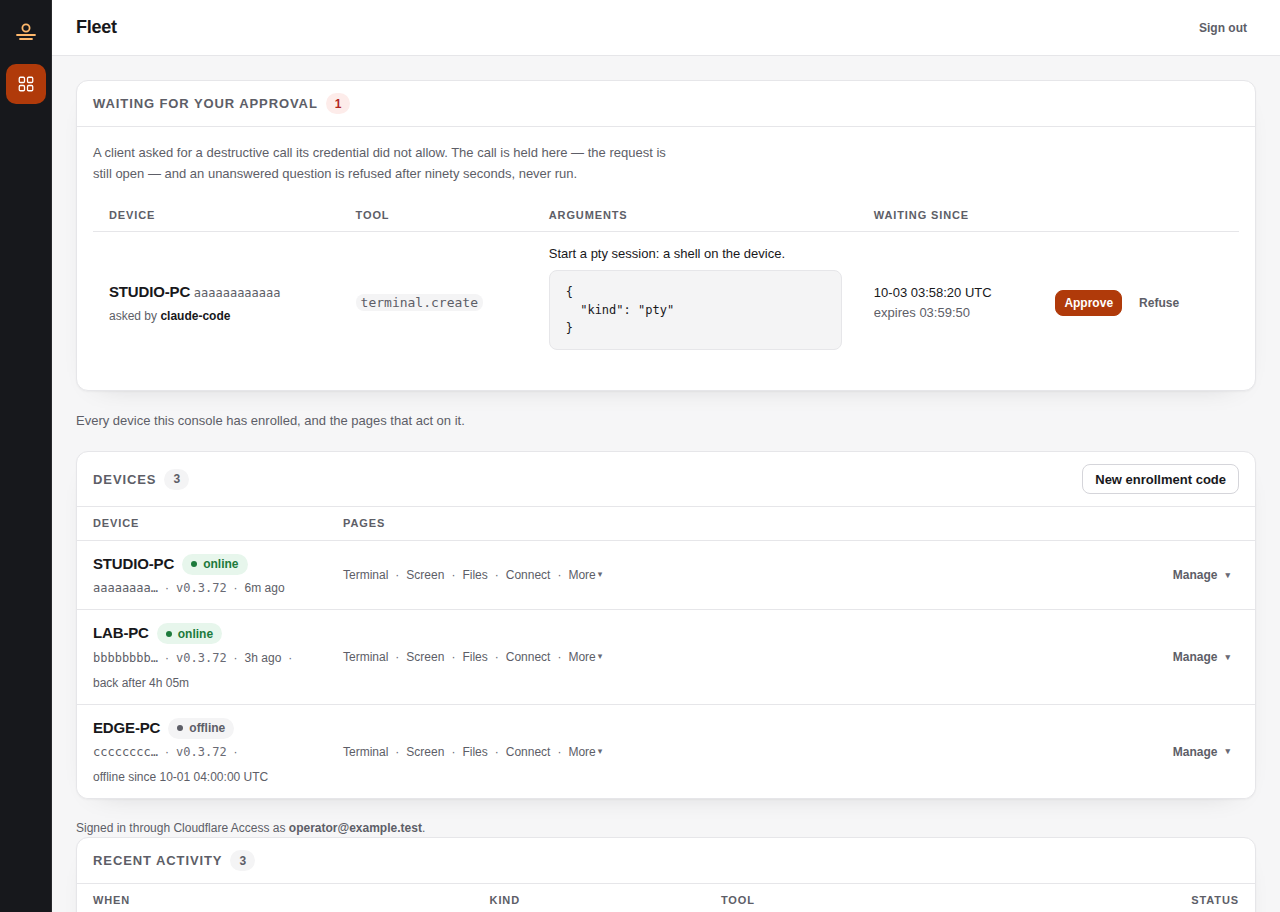
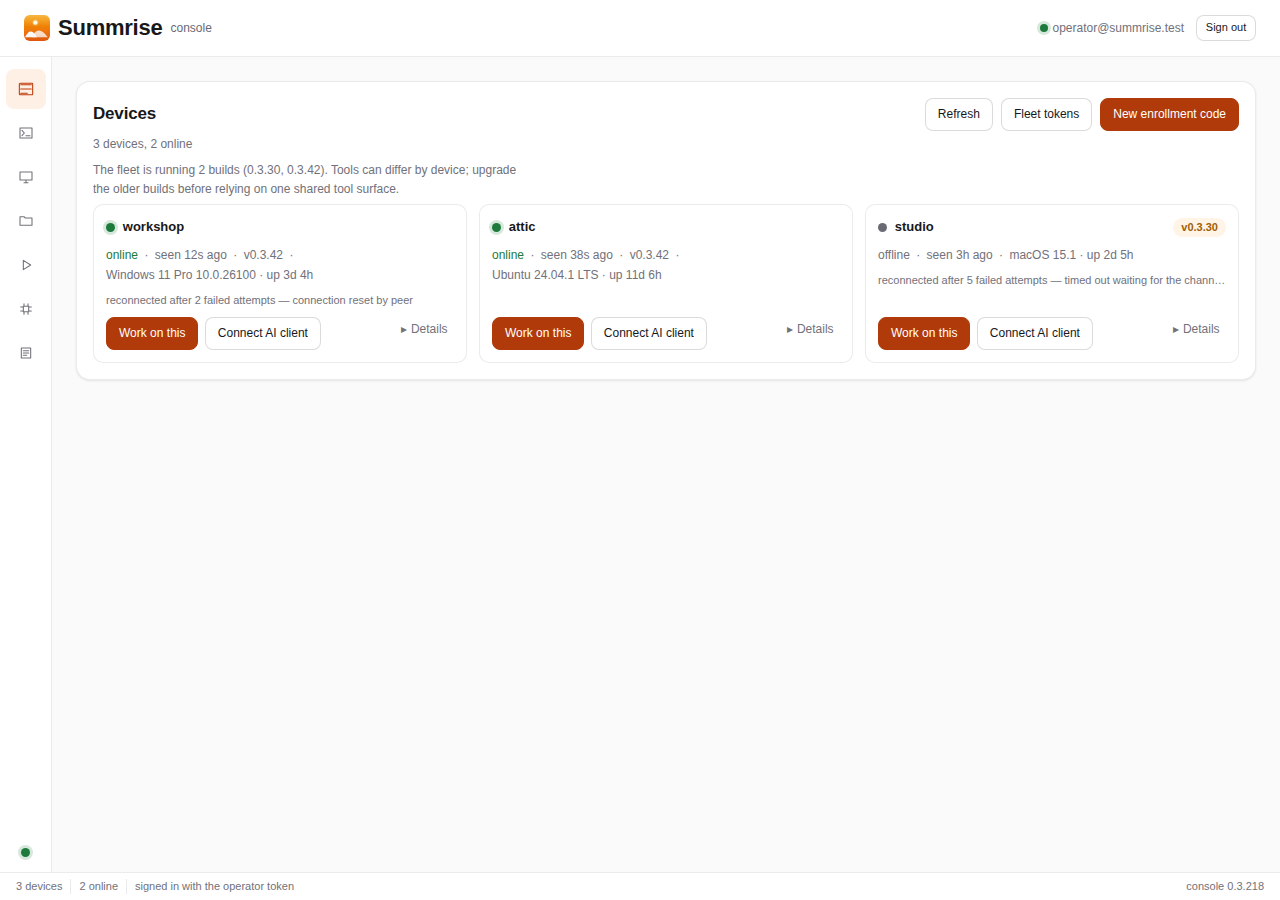
landing/docs: the product no longer sells an approval queue
The public page promised a destructive call "held for approval — ninety seconds, then refused", and
its console image was the old maud Fleet page with a WAITING FOR YOUR APPROVAL card. PRODUCT.md says
the opposite: there is no approval queue and no ninety-second hold; the consent is the token's scope,
and the brake is taking the keyboard. device/core/src/auth.rs refuses immediately. The landing's own
check passed because it checks parity and contrast, never product truth.

Rewrite the claim in both languages (Consent and audit; "refused, and the refusal says how to allow
it"), replace the fleet/grants vocabulary with tokens, and swap the screenshot for the React Devices
page this console actually serves. QUICKSTART and CONNECT-MCP lose the ninety-second hold and their
"rail: Tokens" / "Fleet page" references, which named controls that no longer exist; they now point
at Devices → Connect AI client / Fleet tokens. The deploy runbook stops warning about a queue that
cannot hold anything and names the React page it embeds.

VERIFIED:
- landing/check.mjs -> ok (78 strings in two languages, 17 ids, all anchors/assets resolve, 14
  contrast pairs >= 4.5:1)
- the replaced screenshot is 1280x900 (the figure's width/height now agree)
- grep for "ninety seconds" / "held for approval" in the landing and the two guides -> none; the one
  remaining sentence is PRODUCT.md saying the hold does not exist

diff --git a/landing/public/index.html b/landing/public/index.html
@@ -4,12 +4,12 @@
 <meta charset="utf-8">
 <meta name="viewport" content="width=device-width, initial-scale=1">
 <title>Summrise — a real machine under your AI</title>
-<meta name="description" content="Summrise turns a Windows machine into an AI-operable workspace: terminal, SSH, serial, browser and files over MCP — with one console to watch, approve and take back control from anywhere.">
+<meta name="description" content="Summrise turns a Windows machine into an AI-operable workspace: terminal, SSH, serial, browser and files over MCP — with one console to watch, intervene and take back control from anywhere.">
 <meta name="theme-color" content="#f7f4ee">
 <meta property="og:type" content="website">
 <meta property="og:site_name" content="Summrise">
 <meta property="og:title" content="Summrise — a real machine under your AI">
-<meta property="og:description" content="A Windows box your agent can actually drive — terminal, SSH, serial, browser, files — through one console that keeps the audit, the grants and the off switch.">
+<meta property="og:description" content="A Windows box your agent can actually drive — terminal, SSH, serial, browser, files — through one console that keeps the audit, the tokens and the off switch.">
 <meta property="og:url" content="https://summrise.saisi.online/">
 <meta property="og:image" content="https://summrise.saisi.online/assets/og.png">
 <meta property="og:image:width" content="1200">
@@ -19,7 +19,7 @@
 <link rel="icon" href="assets/favicon.svg" type="image/svg+xml">
 <link rel="stylesheet" href="assets/site.css">
 <script type="application/ld+json">
-{"@context":"https://schema.org","@type":"SoftwareApplication","name":"Summrise","operatingSystem":"Windows 10, Windows 11","applicationCategory":"DeveloperApplication","downloadUrl":"https://github.com/SilasVale/summrise/releases","description":"A Windows runtime that makes a real machine an AI-operable workspace over MCP, with a console for watching, approving and taking back control."}
+{"@context":"https://schema.org","@type":"SoftwareApplication","name":"Summrise","operatingSystem":"Windows 10, Windows 11","applicationCategory":"DeveloperApplication","downloadUrl":"https://github.com/SilasVale/summrise/releases","description":"A Windows runtime that makes a real machine an AI-operable workspace over MCP, with a console for watching, intervening and taking back control."}
 </script>
 </head>
 <body>
@@ -82,7 +82,7 @@
         </div>
         <div class="float">
           <div class="fcard"><div class="k" data-i18n="stats.devicesK">Devices</div><div class="v"><span class="dot"></span><span data-i18n="stats.devices">2 online · 1 offline</span></div></div>
-          <div class="fcard"><div class="k" data-i18n="stats.sessionsK">Sessions</div><div class="v" data-i18n="stats.sessions">4 live · 1 waiting</div></div>
+          <div class="fcard"><div class="k" data-i18n="stats.sessionsK">Sessions</div><div class="v" data-i18n="stats.sessions">4 live · 2 idle</div></div>
           <div class="fcard"><div class="k" data-i18n="stats.auditK">Audit</div><div class="v" data-i18n="stats.audit">1 284 rows today</div></div>
         </div>
       </div>
@@ -92,10 +92,10 @@
   <main id="main">
     <section class="shot" aria-labelledby="shot-caption">
       <div class="shot-frame">
-        <img src="assets/console-fleet.png" width="1280" height="912" loading="lazy"
-             alt="The Summrise console's Fleet page: a destructive call waiting for approval, two devices online and one offline, each with its pages one click away. One of the online machines says it was away for four hours and has come back.">
+        <img src="assets/console-fleet.png" width="1280" height="900" loading="lazy"
+             alt="The Summrise console's Devices page: three machines, two online, each with its build and the one way in.">
       </div>
-      <p class="shot-caption" id="shot-caption" data-i18n="shot.caption">The console at a glance: who is online, what each machine runs, and the one call <em>waiting for you</em>.</p>
+      <p class="shot-caption" id="shot-caption" data-i18n="shot.caption">The console at a glance: which machines are online, what each runs, and the one button that puts you on it.</p>
     </section>
 
     <section id="capabilities">
@@ -104,7 +104,7 @@
       <div class="feat">
         <div class="item"><div class="num" data-i18n="cap.n1">01 / SESSIONS</div><h3 data-i18n="cap.1t">Terminal, SSH, serial</h3><p data-i18n="cap.1b">Real PTYs with attach, resize and scrollback; SSH to the boxes behind it; serial for the hardware that never got a network stack.</p></div>
         <div class="item"><div class="num" data-i18n="cap.n2">02 / BROWSER</div><h3 data-i18n="cap.2t">Headless by default</h3><p data-i18n="cap.2b">Chrome runs on the device&rsquo;s network and its own sessions. Visible windows only when an operator asks to watch — automation should not flash across someone&rsquo;s desktop.</p></div>
-        <div class="item"><div class="num" data-i18n="cap.n3">03 / CONTROL</div><h3 data-i18n="cap.3t">Approvals and audit</h3><p data-i18n="cap.3b">A destructive call without token consent is held for approval — ninety seconds, then refused, never run. Every tool call lands in an audit row with who, what, when — and the console can hold the keyboard.</p></div>
+        <div class="item"><div class="num" data-i18n="cap.n3">03 / CONTROL</div><h3 data-i18n="cap.3t">Consent and audit</h3><p data-i18n="cap.3b">A destructive call without token consent is refused, and the refusal says how to allow it. Every tool call lands in an audit row with who, what, when — and the console can hold the keyboard.</p></div>
         <div class="item"><div class="num" data-i18n="cap.n4">04 / OPERATIONS</div><h3 data-i18n="cap.4t">Self-supervising</h3><p data-i18n="cap.4b">The launcher owns the app binary, verifies it at boot, repairs it when it is gone, and swaps only on a signed release. Nothing to babysit at 3 a.m.</p></div>
       </div>
       <div class="strip">
@@ -127,8 +127,8 @@
           <p data-i18n="surf.cb">Devices dial out over one WebSocket; nothing listens inbound by default, and there is no per-device tunnel. Access in front, operator token behind, fleet and sessions and audit inside.</p>
           <ul>
             <li><b data-i18n="surf.c1k">Fleet</b><span data-i18n="surf.c1v">who is online, what they run, and why the offline one is offline</span></li>
-            <li><b data-i18n="surf.c2k">Sessions</b><span data-i18n="surf.c2v">terminal, browser, files, runs, audit, approvals</span></li>
-            <li><b data-i18n="surf.c3k">Grants</b><span data-i18n="surf.c3v">signed, scoped, expiring; a token revoked in one click</span></li>
+            <li><b data-i18n="surf.c2k">Sessions</b><span data-i18n="surf.c2v">terminal, browser, files, runs, audit, tokens</span></li>
+            <li><b data-i18n="surf.c3k">Tokens</b><span data-i18n="surf.c3v">scoped to one device and its tools, expiring if you want, revoked in one click</span></li>
           </ul>
         </div>
         <div class="surface">

diff --git a/landing/public/assets/lang-zh.js b/landing/public/assets/lang-zh.js
@@ -10,7 +10,7 @@ window.SUMMRISE_ZH = {
 
     "hero.eyebrow": "面向 AI 智能体的 Windows 运行时",
     "hero.title": "你的 AI。<br>脚下是一台<br><span class=\"sun\">真正的机器。</span>",
-    "hero.sub": "一台 AI 真的能驱动的 Windows 机器——终端、SSH、串口、浏览器、文件——以及唯一一个控制台：审计、授权和那道随时能拉下的闸，都在里面。",
+    "hero.sub": "一台 AI 真的能驱动的 Windows 机器——终端、SSH、串口、浏览器、文件——以及唯一一个控制台：审计、令牌和那道随时能拉下的闸，都在里面。",
     "hero.cta1": "下载 Windows 版",
     "hero.cta2": "阅读文档",
     "hero.meta": "WINDOWS 10/11 · X64 · 原生 MCP · 签名更新",
@@ -18,11 +18,11 @@ window.SUMMRISE_ZH = {
     "stats.devicesK": "设备",
     "stats.devices": "2 台在线 · 1 台离线",
     "stats.sessionsK": "会话",
-    "stats.sessions": "4 个进行中 · 1 个等待",
+    "stats.sessions": "4 个进行中 · 2 个空闲",
     "stats.auditK": "审计",
     "stats.audit": "今日 1 284 条",
 
-    "shot.caption": "一眼看清控制台：谁在线、每台机器在跑什么，以及那条<em>等你决定</em>的调用。",
+    "shot.caption": "一眼看清控制台：哪些机器在线、每台在跑什么，以及那个把你放到机器上的按钮。",
 
     "cap.kicker": "能力",
     "cap.title": "机器能做的每件事，都隔着一道授权。",
@@ -30,8 +30,8 @@ window.SUMMRISE_ZH = {
     "cap.1b": "真正的 PTY：接入、调整大小、回滚；SSH 连到它身后的机器；串口留给那些从来没有过网络栈的硬件。",
     "cap.2t": "默认无头浏览器",
     "cap.2b": "Chrome 跑在设备自己的网络和登录态里。只有操作者要求观看时才弹出可见窗口——自动化不该在别人桌面上闪来闪去。",
-    "cap.3t": "审批与审计",
-    "cap.3b": "未获令牌许可的破坏性调用会被挂起等待审批——九十秒无人应答才拒绝，绝不执行。每次工具调用都留下谁、做了什么、何时做的审计行——控制台还能按住键盘。",
+    "cap.3t": "许可与审计",
+    "cap.3b": "未获令牌许可的破坏性调用会被直接拒绝，拒绝信息会说明如何放行。每次工具调用都留下谁、做了什么、何时做的审计行——控制台还能按住键盘。",
     "cap.4t": "自我监督",
     "cap.n1": "01 / 会话",
     "cap.n2": "02 / 浏览器",
@@ -54,9 +54,9 @@ window.SUMMRISE_ZH = {
     "surf.c1k": "机队",
     "surf.c1v": "谁在线、跑的什么版本、离线的那台为什么离线",
     "surf.c2k": "会话",
-    "surf.c2v": "终端、浏览器、文件、运行、审计、审批",
-    "surf.c3k": "授权",
-    "surf.c3v": "签名、限定范围、到期失效；令牌一键撤销",
+    "surf.c2v": "终端、浏览器、文件、运行、审计、令牌",
+    "surf.c3k": "令牌",
+    "surf.c3v": "限定到一台设备和它的工具，可选到期，一键撤销",
     "surf.pt": "在这台机器上",
     "surf.pb": "只监听回环，没有登录。控制台不可用时它依然工作——也只有它能说清通道为什么断了。",
     "surf.p1k": "状态",

diff --git a/docs/QUICKSTART.md b/docs/QUICKSTART.md
@@ -19,7 +19,7 @@ It is loopback only and has no login — if you can read it, you are on the box.
 
 ## 2. Enroll the machine
 
-In the console: the Fleet page's **New enrollment code**. The code is single-use and expires in
+In the console: the Devices page's **New enrollment code**. The code is single-use and expires in
 minutes. Spend it either way:
 
 - **At the machine:** in the panel, open **Console link → Enrol this machine**, paste the console URL
@@ -46,10 +46,10 @@ sc start SummriseLaunch
 
 ## 3. Create a permanent token
 
-In the console, open the device's **Connect an AI client** page (the fleet row's **Connect** link, or
-the rail's **Tokens**). Name the token, decide whether destructive tools are allowed (unticked means
-a destructive call is held for approval, and refused if nobody answers within ninety seconds), and
-press **Mint a token**.
+In the console, open the device's **Connect AI client** dialog (Devices → the card's **Connect AI
+client**). Name the token, decide whether destructive tools are allowed (unticked means
+a destructive call is refused immediately, and the refusal says how to allow it), and press
+**Create token**.
 
 The value is `srm_` plus 64 lowercase hex characters, shown once and stored only as a hash: neither the
 list nor the audit can produce it again, so keep it in a secret, not a repository or a screenshot. It
@@ -57,9 +57,9 @@ is permanent by default; the card's **Expires** select gives it 30, 90 or 365 da
 `expires_in_s` takes anything from one hour to 365 days), and revocation is the only withdrawal for a
 permanent token ([the scope rules](CONNECT-MCP.md#scope-and-revocation)).
 
-To reach several devices with one client, open the fleet page's **Fleet tokens** link, name the
-token, tick the machines it should reach, and point the client at `https://<console>/mcp/all`; every
-tool takes a `device` argument. The per-device card still creates one-device tokens.
+To reach several devices with one client, open **Devices → Fleet tokens**, name the token, tick the
+machines it should reach, and point the client at `https://<console>/mcp/all`; every tool takes a
+`device` argument. The per-device card still creates one-device tokens.
 
 ## 4. Point the client at the endpoint
 
@@ -122,7 +122,8 @@ call; [`CONNECT-MCP.md#a-quick-check`](CONNECT-MCP.md#a-quick-check) has `initia
 
 ## 6. Revoke
 
-On the device's **Connect an AI client** page (the rail's **Tokens**), the token's row has **Revoke**.
+In the device's **Connect AI client** dialog (Devices → **Connect AI client**), the token's row has
+**Revoke**.
 The next request with that token is `401`, and the value is never shown again. Create a new token and
 update the client's configuration if the client should keep working.
 

diff --git a/docs/CONNECT-MCP.md b/docs/CONNECT-MCP.md
@@ -60,10 +60,10 @@ A grant expires, so a configuration built around one has to be rebuilt. A **perm
 console's answer for a client whose configuration must stay fixed: the console issues it once, the
 client sends it on every request, and the console turns it into a short grant each time.
 
-Create it in the console page: the device's **Connect an AI client** page (rail: **Tokens**). Name
-it, tick the destructive consent (the same `allow_destructive` a grant carries — unticked means a
-destructive call is held for approval and refused if nobody answers within ninety seconds), and press
-**Mint a token**. The token is `srm_` followed by 64 lowercase hex characters (68
+Create it in the console: the device's **Connect AI client** dialog (Devices → **Connect AI
+client**). Name it, tick the destructive consent (the same `allow_destructive` a grant carries —
+unticked means a destructive call is refused immediately, and the refusal names the consent it
+needs), and press **Create token**. The token is `srm_` followed by 64 lowercase hex characters (68
 in all), returned once at creation:
 
 ```
@@ -184,9 +184,9 @@ The answer carries the plaintext once. Use it as the bearer on `/mcp/all`:
 
 The device list is the scope: a call naming a device outside it is refused before a frame is sent,
 and a name shared by two allowed devices is ambiguous and refused, never guessed. A device token is
-refused on `/mcp/all`; an aggregate token is refused on `/mcp/<device-id>`. The fleet page's
-**Fleet tokens** link creates, lists and revokes aggregate tokens (the same operations are on the
-API: `POST /tokens` with `device_ids`, `GET /tokens`, `DELETE /tokens/<id>`); the per-device card
+refused on `/mcp/all`; an aggregate token is refused on `/mcp/<device-id>`. **Devices →
+Fleet tokens** creates, lists and revokes aggregate tokens (the same operations are on the API:
+`POST /tokens` with `device_ids`, `GET /tokens`, `DELETE /tokens/<id>`); the per-device dialog
 creates one-device tokens only.
 
 ## DeepSeek Harness

diff --git a/docs/console-deploy.md b/docs/console-deploy.md
@@ -14,7 +14,7 @@ Three version streams ship from this repository and none of them is deployed by 
 |---|---|
 | device runtime | the installer, or the device's own update check against the mirror |
 | **console** | **built here, fetched by the host over the tailnet, swapped by a `.cmd`** |
-| console page | inside the console binary (`maud`, server-rendered) — no separate deploy |
+| console page | React 19, built into one HTML file and embedded in the console binary — no separate deploy |
 
 The console host has **no Rust toolchain**: `cargo`, `rustc` and `git` are absent (measured
 2026-10-28). So the binary is built on the Linux box for `x86_64-pc-windows-msvc`, staged on the
@@ -34,9 +34,9 @@ on the host; no bytes pass through an AI context.
 
 ## Before you deploy
 
-- **A pending approval does not survive.** Held destructive calls live in memory; the restart loses
-  one that a person has not answered yet. Check the fleet page's *Waiting for your approval* card
-  first, or deploy when nobody is driving.
+- **There is no approval queue to check.** A deploy restarts the console, so a call that is in
+  flight fails once and the operator retries it; nothing is waiting on a person. Device channels
+  reconnect on their own.
 - Device channels reconnect on their own; no device needs to be touched.
 - The **aggregate MCP goes through the console**, so restarting it drops the AI's own MCP connection
   for a few seconds. Observed on the first run: one `fetch failed` mid-deploy. The deploy script does
